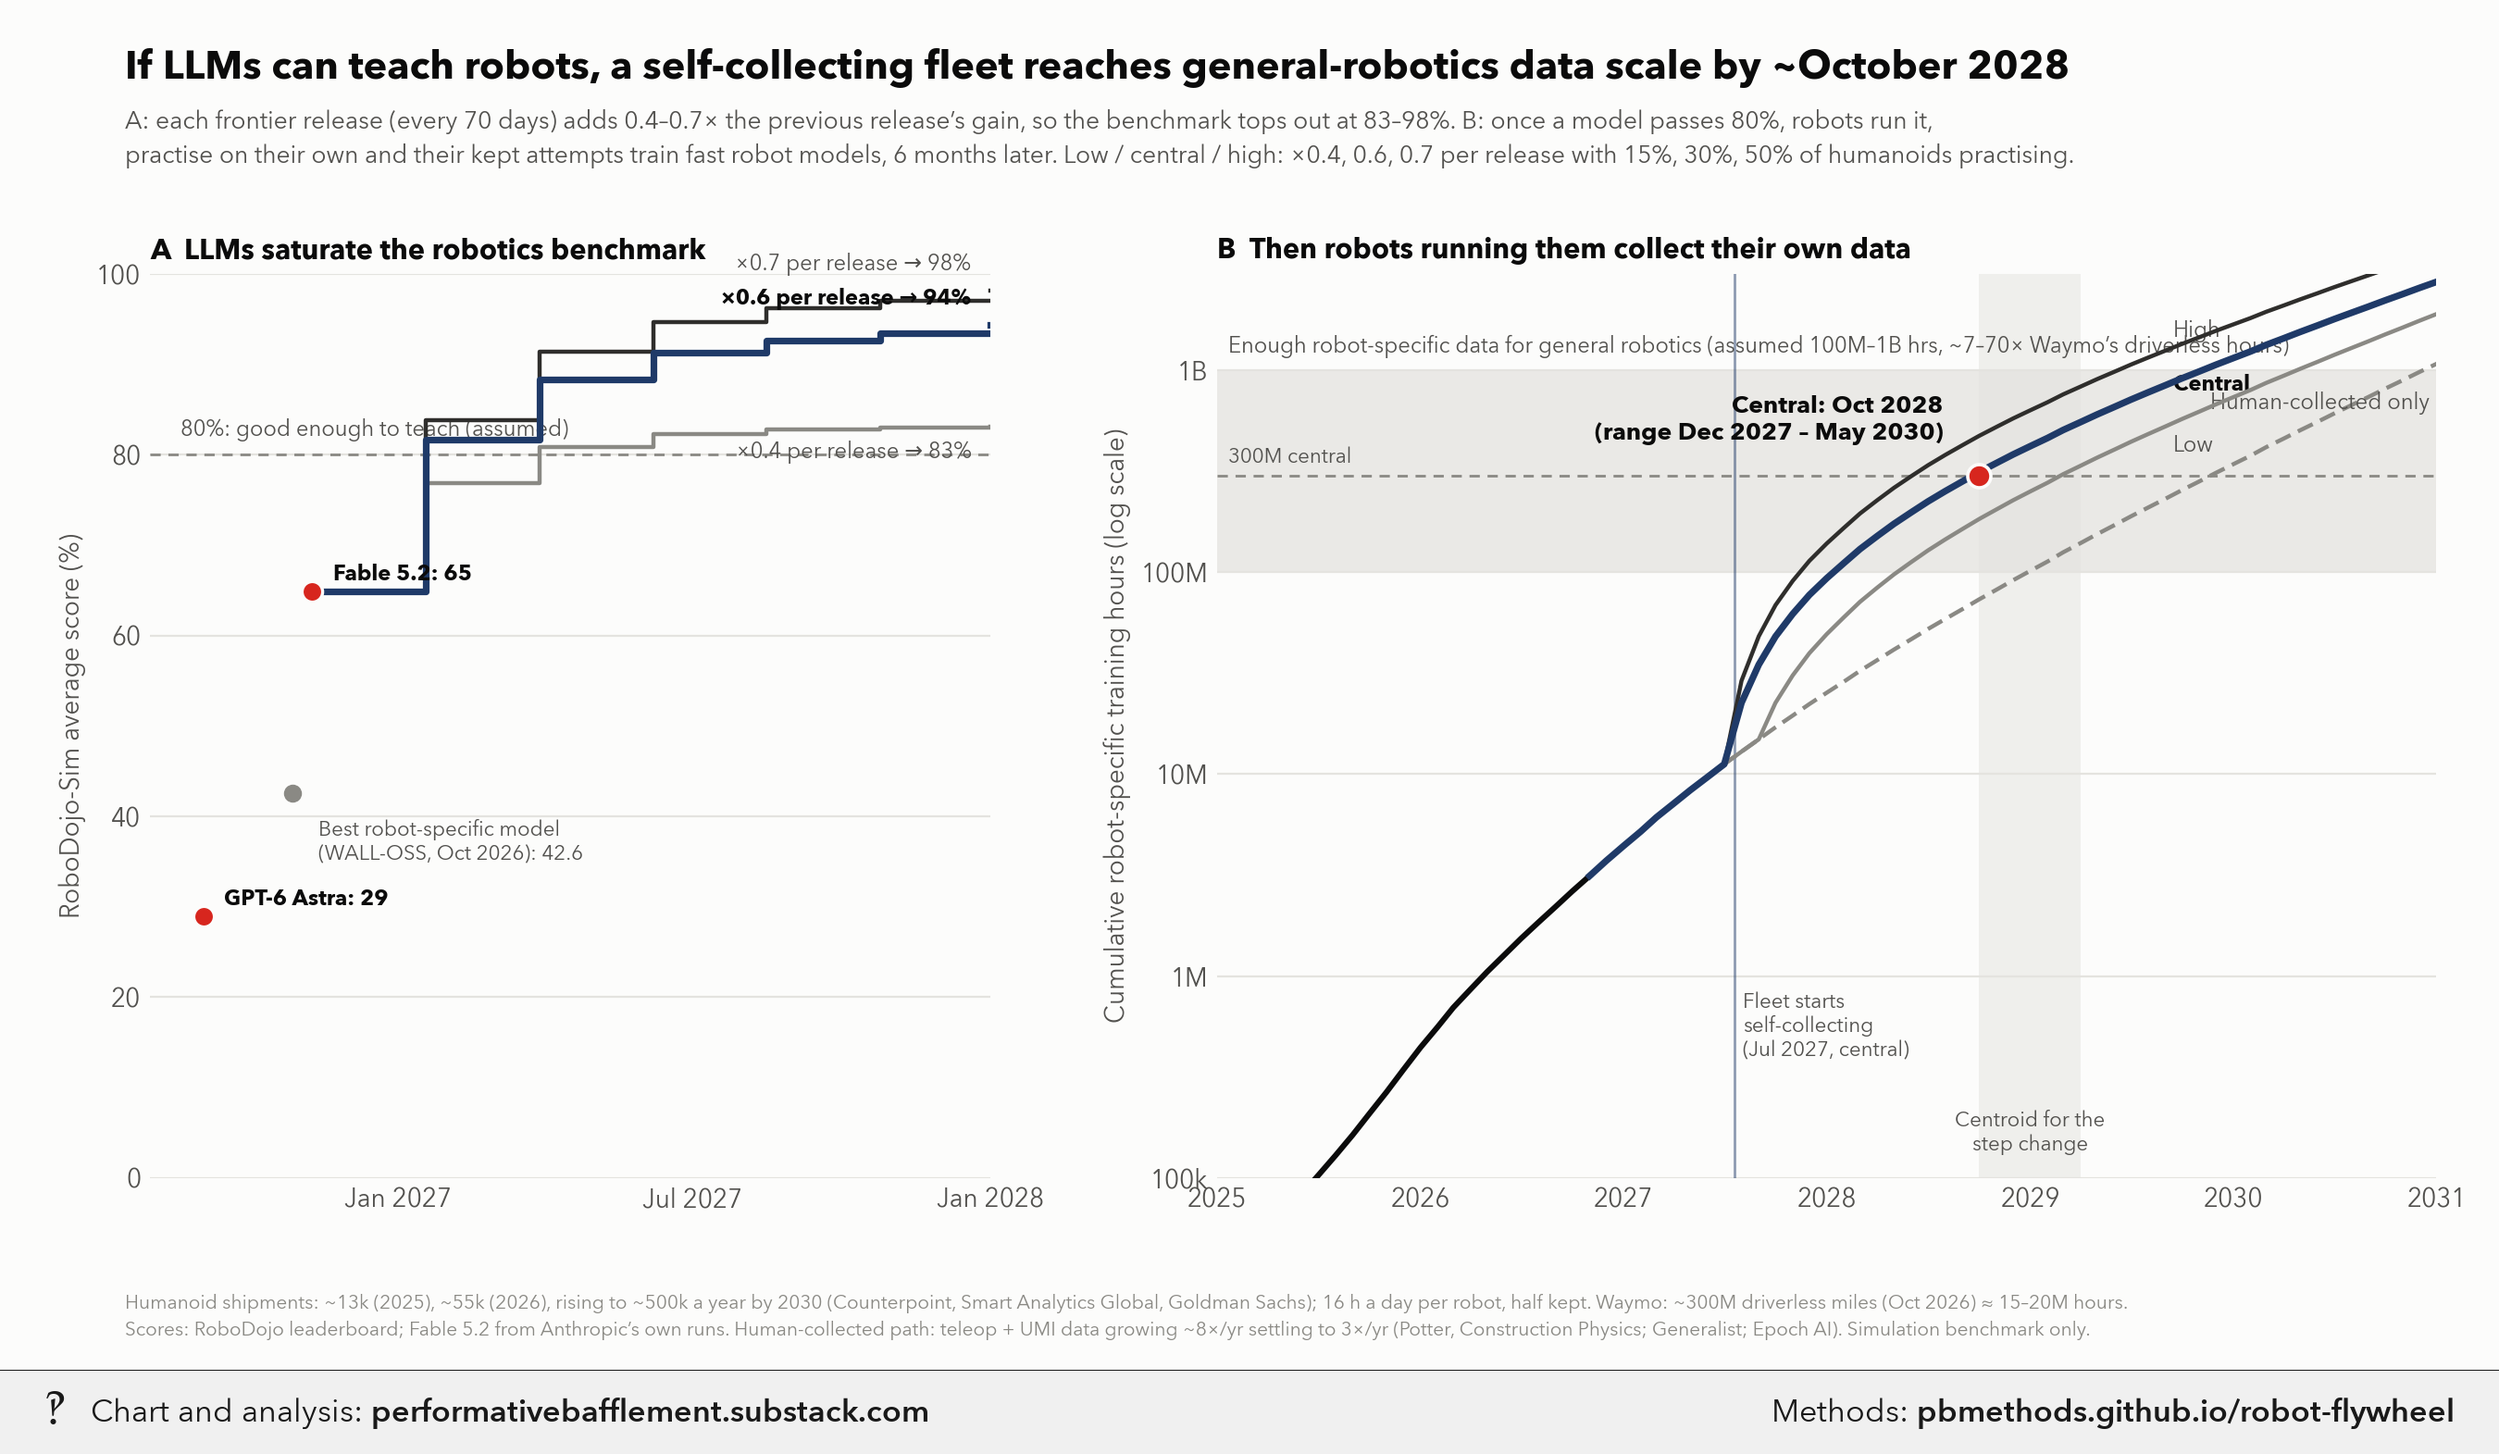
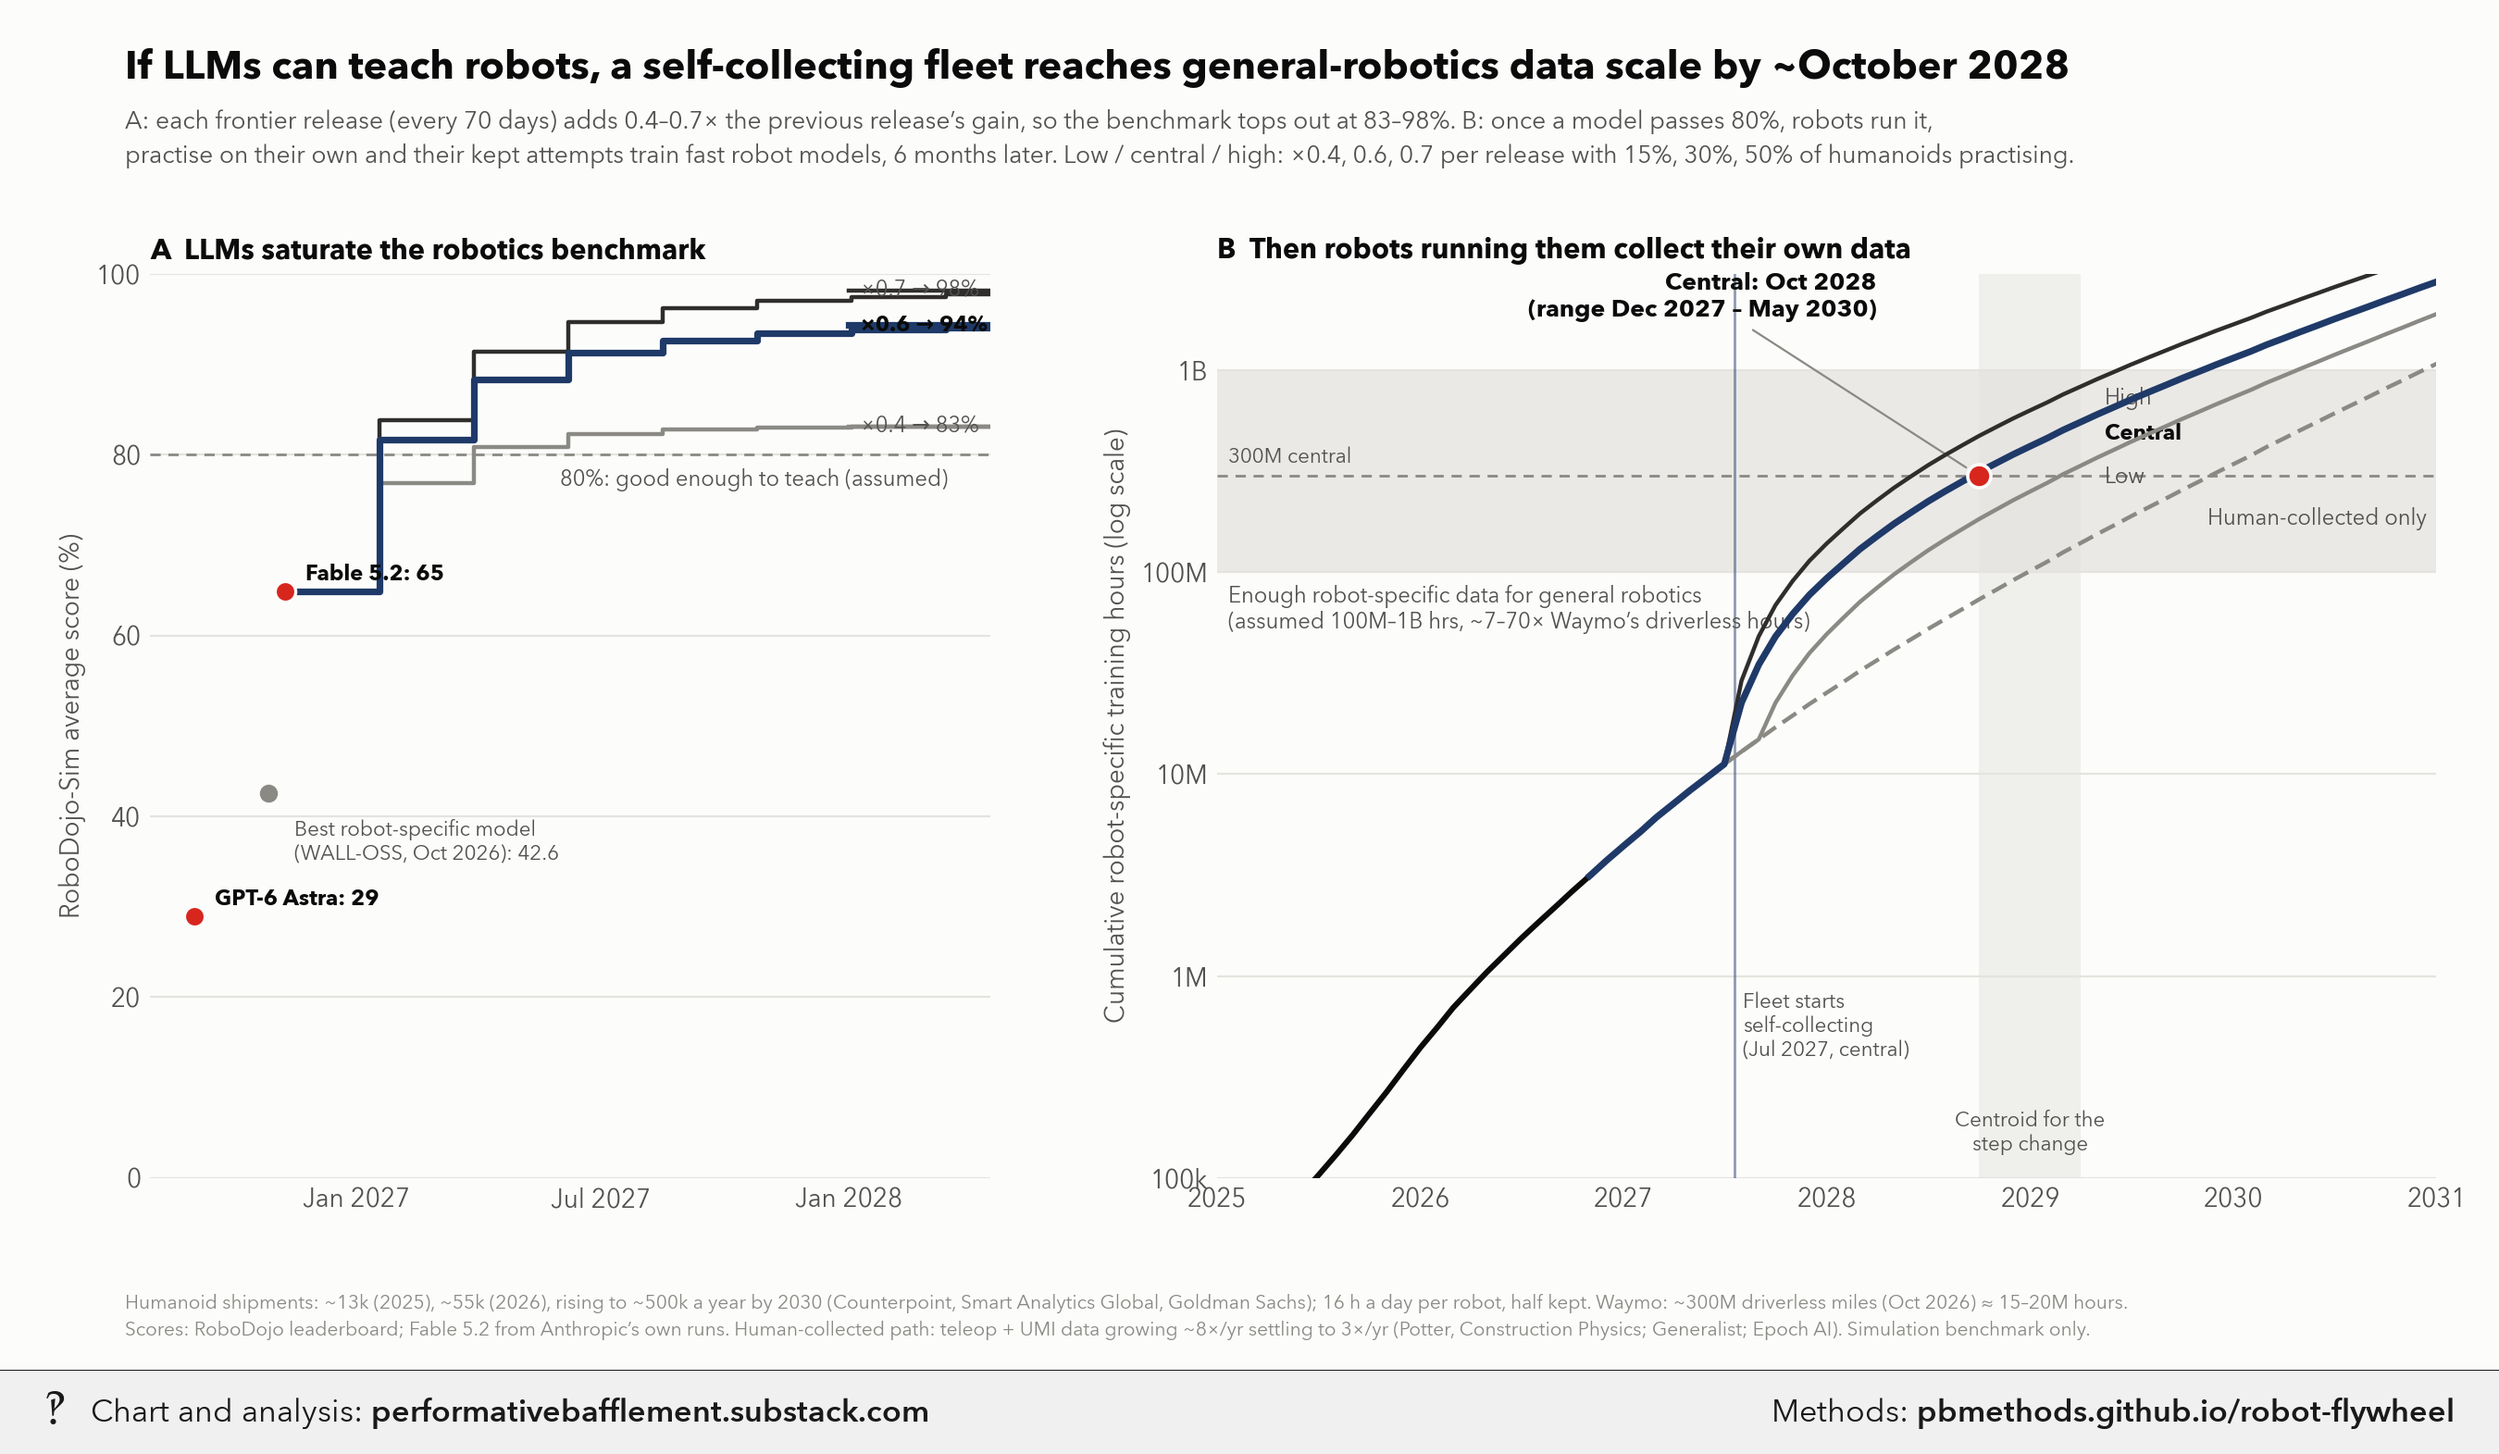
Update robot-flywheel

diff --git a/robot-flywheel/index.html b/robot-flywheel/index.html
@@ -881,8 +881,8 @@ def main():
 
     # --- A: benchmark saturation
     a.axhline(TEACHER, color=MUTED, lw=1, ls=(0, (4, 3)), zorder=1)
-    a.text(date(2026, 8, 20), TEACHER + 1.5, &quot;80%: good enough to teach (assumed)&quot;, fontsize=8.5,
-           color=INK2, va=&quot;bottom&quot;)
+    a.text(date(2027, 6, 1), TEACHER - 1.5, &quot;80%: good enough to teach (assumed)&quot;, fontsize=8.5,
+           color=INK2, va=&quot;top&quot;)
     a.plot(date(2026, 10, 28), 42.59, &quot;o&quot;, ms=6, color=MUTED, zorder=5)
     a.annotate(&quot;Best robot-specific model\n(WALL-OSS, Oct 2026): 42.6&quot;, (date(2026, 10, 28), 42.59),
                xytext=(10, -26), textcoords=&quot;offset points&quot;, fontsize=8, color=INK2)
@@ -891,15 +891,14 @@ def main():
         xs = [d for d, _ in s[&quot;pts&quot;][1:]] + [date(2028, 1, 1)]
         ys = [v for _, v in s[&quot;pts&quot;][1:]] + [s[&quot;pts&quot;][-1][1]]
         a.step(xs, ys, where=&quot;post&quot;, zorder=3, **style[k])
-        a.text(date(2027, 12, 20), ys[-1] + (1.6 if k != &quot;low&quot; else -1.6),
-               f&quot;×{r} per release → {s['ceiling']:.0f}%&quot;, fontsize=8.5, ha=&quot;right&quot;,
-               va=&quot;bottom&quot; if k != &quot;low&quot; else &quot;top&quot;, color=INK if k == &quot;central&quot; else INK2,
+        a.text(date(2028, 1, 10), ys[-1], f&quot;×{r} → {s['ceiling']:.0f}%&quot;, fontsize=8.5, ha=&quot;left&quot;,
+               va=&quot;center&quot;, color=INK if k == &quot;central&quot; else INK2,
                fontweight=&quot;bold&quot; if k == &quot;central&quot; else &quot;normal&quot;)
     for name, d, s in OBSERVED:
         a.plot(d, s, &quot;o&quot;, ms=8, color=RED, mec=SURF, mew=1.2, zorder=6)
         a.annotate(f&quot;{name}: {s:.0f}&quot;, (d, s), xytext=(8, 2), textcoords=&quot;offset points&quot;,
                    fontsize=8.5, color=INK, fontweight=&quot;bold&quot;, va=&quot;bottom&quot;)
-    a.set_xlim(date(2026, 8, 1), date(2028, 1, 1))
+    a.set_xlim(date(2026, 8, 1), date(2028, 4, 15))
     a.set_ylim(0, 100)
     a.xaxis.set_major_locator(mdates.MonthLocator(bymonth=(1, 7)))
     a.xaxis.set_major_formatter(mdates.DateFormatter(&quot;%b %Y&quot;))
@@ -911,9 +910,9 @@ def main():
     lo, mid, hi = TARGET
     b.axhspan(lo, hi, color=GRID, alpha=0.75, lw=0, zorder=0)
     b.axhline(mid, color=MUTED, lw=1, ls=(0, (4, 3)), zorder=1)
-    b.text(date(2025, 1, 20), hi * 1.15,
-           &quot;Enough robot-specific data for general robotics (assumed 100M–1B hrs, ~7–70× Waymo’s driverless hours)&quot;,
-           fontsize=8.5, color=INK2, va=&quot;bottom&quot;)
+    b.text(date(2025, 1, 20), lo / 1.15,
+           &quot;Enough robot-specific data for general robotics\n(assumed 100M–1B hrs, ~7–70× Waymo’s driverless hours)&quot;,
+           fontsize=8.5, color=INK2, va=&quot;top&quot;)
     b.text(date(2025, 1, 20), mid * 1.1, &quot;300M central&quot;, fontsize=8, color=INK2, va=&quot;bottom&quot;)
     b.axvspan(date(2028, 10, 1), date(2029, 4, 1), color=GRID, alpha=0.5, lw=0, zorder=0)
     b.text(date(2029, 1, 1), 1.3e5, &quot;Centroid for the\nstep change&quot;, ha=&quot;center&quot;, va=&quot;bottom&quot;,
@@ -923,14 +922,15 @@ def main():
     proj = ~e.is_hist | (e.x == e.x[e.is_hist][-1])
     b.plot(e.x[hist], e.r_mid[hist], color=INK, lw=2.2, zorder=4)
     b.plot(e.x[proj], e.r_mid[proj], color=MUTED, lw=1.6, ls=(0, (4, 2)), zorder=3)
-    b.text(date(2030, 12, 20), e.r_mid[np.argmax(e.x &gt;= date(2030, 12, 1))] / 1.25,
-           &quot;Human-collected only&quot;, fontsize=8.5, color=INK2, ha=&quot;right&quot;, va=&quot;top&quot;)
+    li = np.argmax(e.x &gt;= date(2029, 11, 1))
+    b.text(date(2029, 11, 15), e.r_mid[li] / 1.35, &quot;Human-collected only&quot;, fontsize=8.5,
+           color=INK2, ha=&quot;left&quot;, va=&quot;top&quot;)
     for k in (&quot;low&quot;, &quot;high&quot;, &quot;central&quot;):
         s = sc[k]
         b.plot(e.x[proj], s[&quot;total&quot;][proj], zorder=4, **style[k])
-    end = np.argmax(e.x &gt;= date(2029, 9, 1))
-    for k, dy in ((&quot;high&quot;, 1.25), (&quot;central&quot;, 1.0), (&quot;low&quot;, 0.8)):
-        b.text(date(2029, 9, 15), sc[k][&quot;total&quot;][end] * dy,
+    end = np.argmax(e.x &gt;= date(2029, 5, 1))
+    for k, dy in ((&quot;high&quot;, 1.0), (&quot;central&quot;, 1.0), (&quot;low&quot;, 1.0)):
+        b.text(date(2029, 5, 15), sc[k][&quot;total&quot;][end] * dy / 1.25,
                {&quot;high&quot;: &quot;High&quot;, &quot;central&quot;: &quot;Central&quot;, &quot;low&quot;: &quot;Low&quot;}[k], fontsize=8.5,
                color=INK if k == &quot;central&quot; else INK2, fontweight=&quot;bold&quot; if k == &quot;central&quot; else &quot;normal&quot;,
                va=&quot;center&quot;)
@@ -940,8 +940,9 @@ def main():
     lo_d = crossing(sc[&quot;high&quot;][&quot;total&quot;], lo)
     hi_d = crossing(sc[&quot;low&quot;][&quot;total&quot;], hi)
     b.annotate(f&quot;Central: {d_mid:%b %Y}\n(range {lo_d:%b %Y} – {hi_d:%b %Y})&quot;, (d_mid, mid),
-               xytext=(-14, 14), textcoords=&quot;offset points&quot;, ha=&quot;right&quot;, fontsize=9.5,
-               color=INK, fontweight=&quot;bold&quot;)
+               xytext=(-40, 62), textcoords=&quot;offset points&quot;, ha=&quot;right&quot;, fontsize=9.5,
+               color=INK, fontweight=&quot;bold&quot;,
+               arrowprops=dict(arrowstyle=&quot;-&quot;, color=MUTED, lw=0.8, shrinkA=2, shrinkB=6))
     b.axvline(c[&quot;start&quot;], color=NAVY, lw=1, alpha=0.5, zorder=1)
     b.text(c[&quot;start&quot;] + timedelta(days=15), 4e5,
            f&quot;Fleet starts\nself-collecting\n({c['start']:%b %Y}, central)&quot;, fontsize=8, color=INK2)

diff --git a/index.html b/index.html
@@ -24,8 +24,8 @@ li{margin:.2rem 0}
 <h1>Performative Bafflement: chart methods</h1>
 <p>Methodology, results and code behind charts from <a href="https://performativebafflement.substack.com/">Performative Bafflement</a>. Each page has a plain-text <code>methods.md</code> for AI fact-checking.</p>
 <ul>
-<li><a href="robot-gap/">How fast shrinking LLM jumps close the gap to 'Astra-level' robotics</a> (2026-11-17)</li>
 <li><a href="robot-flywheel/">If LLMs can teach robots: a self-collecting fleet and the road to general robotics</a> (2026-11-17)</li>
+<li><a href="robot-gap/">How fast shrinking LLM jumps close the gap to 'Astra-level' robotics</a> (2026-11-17)</li>
 <li><a href="sex-dynamics/">The master post of sexual and relationship dynamics: looks, money, height, paying for sex, marriage, porn and wanting more</a> (2026-11-16)</li>
 <li><a href="sex-income/">How much income has the same happiness effect as having sex more often? US (GSS) vs China (CHFLS)</a> (2026-11-16)</li>
 <li><a href="rich-age-gap/">Do rich men marry much younger women? The husband-wife age gap by income and net worth</a> (2026-11-15)</li>

diff --git a/robot-flywheel/methods.md b/robot-flywheel/methods.md
@@ -881,8 +881,8 @@ def main():
 
     # --- A: benchmark saturation
     a.axhline(TEACHER, color=MUTED, lw=1, ls=(0, (4, 3)), zorder=1)
-    a.text(date(2026, 8, 20), TEACHER + 1.5, "80%: good enough to teach (assumed)", fontsize=8.5,
-           color=INK2, va="bottom")
+    a.text(date(2027, 6, 1), TEACHER - 1.5, "80%: good enough to teach (assumed)", fontsize=8.5,
+           color=INK2, va="top")
     a.plot(date(2026, 10, 28), 42.59, "o", ms=6, color=MUTED, zorder=5)
     a.annotate("Best robot-specific model\n(WALL-OSS, Oct 2026): 42.6", (date(2026, 10, 28), 42.59),
                xytext=(10, -26), textcoords="offset points", fontsize=8, color=INK2)
@@ -891,15 +891,14 @@ def main():
         xs = [d for d, _ in s["pts"][1:]] + [date(2028, 1, 1)]
         ys = [v for _, v in s["pts"][1:]] + [s["pts"][-1][1]]
         a.step(xs, ys, where="post", zorder=3, **style[k])
-        a.text(date(2027, 12, 20), ys[-1] + (1.6 if k != "low" else -1.6),
-               f"×{r} per release → {s['ceiling']:.0f}%", fontsize=8.5, ha="right",
-               va="bottom" if k != "low" else "top", color=INK if k == "central" else INK2,
+        a.text(date(2028, 1, 10), ys[-1], f"×{r} → {s['ceiling']:.0f}%", fontsize=8.5, ha="left",
+               va="center", color=INK if k == "central" else INK2,
                fontweight="bold" if k == "central" else "normal")
     for name, d, s in OBSERVED:
         a.plot(d, s, "o", ms=8, color=RED, mec=SURF, mew=1.2, zorder=6)
         a.annotate(f"{name}: {s:.0f}", (d, s), xytext=(8, 2), textcoords="offset points",
                    fontsize=8.5, color=INK, fontweight="bold", va="bottom")
-    a.set_xlim(date(2026, 8, 1), date(2028, 1, 1))
+    a.set_xlim(date(2026, 8, 1), date(2028, 4, 15))
     a.set_ylim(0, 100)
     a.xaxis.set_major_locator(mdates.MonthLocator(bymonth=(1, 7)))
     a.xaxis.set_major_formatter(mdates.DateFormatter("%b %Y"))
@@ -911,9 +910,9 @@ def main():
     lo, mid, hi = TARGET
     b.axhspan(lo, hi, color=GRID, alpha=0.75, lw=0, zorder=0)
     b.axhline(mid, color=MUTED, lw=1, ls=(0, (4, 3)), zorder=1)
-    b.text(date(2025, 1, 20), hi * 1.15,
-           "Enough robot-specific data for general robotics (assumed 100M–1B hrs, ~7–70× Waymo’s driverless hours)",
-           fontsize=8.5, color=INK2, va="bottom")
+    b.text(date(2025, 1, 20), lo / 1.15,
+           "Enough robot-specific data for general robotics\n(assumed 100M–1B hrs, ~7–70× Waymo’s driverless hours)",
+           fontsize=8.5, color=INK2, va="top")
     b.text(date(2025, 1, 20), mid * 1.1, "300M central", fontsize=8, color=INK2, va="bottom")
     b.axvspan(date(2028, 10, 1), date(2029, 4, 1), color=GRID, alpha=0.5, lw=0, zorder=0)
     b.text(date(2029, 1, 1), 1.3e5, "Centroid for the\nstep change", ha="center", va="bottom",
@@ -923,14 +922,15 @@ def main():
     proj = ~e.is_hist | (e.x == e.x[e.is_hist][-1])
     b.plot(e.x[hist], e.r_mid[hist], color=INK, lw=2.2, zorder=4)
     b.plot(e.x[proj], e.r_mid[proj], color=MUTED, lw=1.6, ls=(0, (4, 2)), zorder=3)
-    b.text(date(2030, 12, 20), e.r_mid[np.argmax(e.x >= date(2030, 12, 1))] / 1.25,
-           "Human-collected only", fontsize=8.5, color=INK2, ha="right", va="top")
+    li = np.argmax(e.x >= date(2029, 11, 1))
+    b.text(date(2029, 11, 15), e.r_mid[li] / 1.35, "Human-collected only", fontsize=8.5,
+           color=INK2, ha="left", va="top")
     for k in ("low", "high", "central"):
         s = sc[k]
         b.plot(e.x[proj], s["total"][proj], zorder=4, **style[k])
-    end = np.argmax(e.x >= date(2029, 9, 1))
-    for k, dy in (("high", 1.25), ("central", 1.0), ("low", 0.8)):
-        b.text(date(2029, 9, 15), sc[k]["total"][end] * dy,
+    end = np.argmax(e.x >= date(2029, 5, 1))
+    for k, dy in (("high", 1.0), ("central", 1.0), ("low", 1.0)):
+        b.text(date(2029, 5, 15), sc[k]["total"][end] * dy / 1.25,
                {"high": "High", "central": "Central", "low": "Low"}[k], fontsize=8.5,
                color=INK if k == "central" else INK2, fontweight="bold" if k == "central" else "normal",
                va="center")
@@ -940,8 +940,9 @@ def main():
     lo_d = crossing(sc["high"]["total"], lo)
     hi_d = crossing(sc["low"]["total"], hi)
     b.annotate(f"Central: {d_mid:%b %Y}\n(range {lo_d:%b %Y} – {hi_d:%b %Y})", (d_mid, mid),
-               xytext=(-14, 14), textcoords="offset points", ha="right", fontsize=9.5,
-               color=INK, fontweight="bold")
+               xytext=(-40, 62), textcoords="offset points", ha="right", fontsize=9.5,
+               color=INK, fontweight="bold",
+               arrowprops=dict(arrowstyle="-", color=MUTED, lw=0.8, shrinkA=2, shrinkB=6))
     b.axvline(c["start"], color=NAVY, lw=1, alpha=0.5, zorder=1)
     b.text(c["start"] + timedelta(days=15), 4e5,
            f"Fleet starts\nself-collecting\n({c['start']:%b %Y}, central)", fontsize=8, color=INK2)

diff --git a/index.md b/index.md
@@ -2,8 +2,8 @@
 
 Methodology, results and code behind charts from <a href="https://performativebafflement.substack.com/">Performative Bafflement</a>. Each page has a plain-text `methods.md` for AI fact-checking.
 
-- [How fast shrinking LLM jumps close the gap to 'Astra-level' robotics](robot-gap/) (2026-11-17)
 - [If LLMs can teach robots: a self-collecting fleet and the road to general robotics](robot-flywheel/) (2026-11-17)
+- [How fast shrinking LLM jumps close the gap to 'Astra-level' robotics](robot-gap/) (2026-11-17)
 - [The master post of sexual and relationship dynamics: looks, money, height, paying for sex, marriage, porn and wanting more](sex-dynamics/) (2026-11-16)
 - [How much income has the same happiness effect as having sex more often? US (GSS) vs China (CHFLS)](sex-income/) (2026-11-16)
 - [Do rich men marry much younger women? The husband-wife age gap by income and net worth](rich-age-gap/) (2026-11-15)
